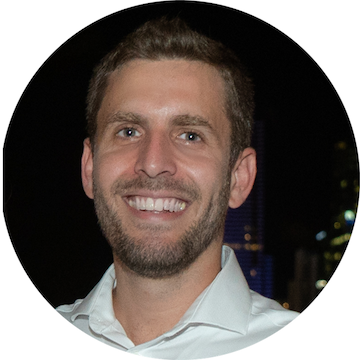
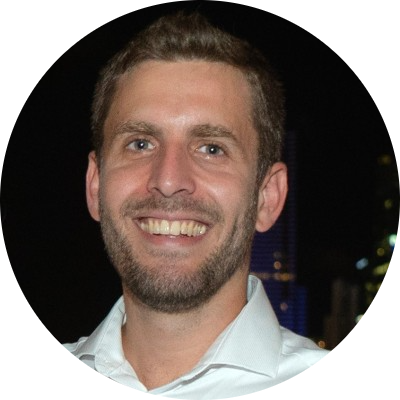
Headshot changed. Professional experience updated.

diff --git a/index.html b/index.html
@@ -175,7 +175,9 @@
         .profile-image img {
             width: 100%;
             height: 100%;
-            object-fit: cover;
+            object-fit: contain;
+            object-position: center;
+            background-color: var(--white);
         }
         
         .about-content h3 {
@@ -497,9 +499,9 @@
                     <img src="assets/images/headshot.png" alt="Headshot of Daniel Baez">
                 </div>
                 <div class="about-content">
-                    <p>Hello, I'm Daniel Baez — a technology enthusiast and CTO passionate about efficiency in digital transformation. With an analytical mindset and methodical approach to problem-solving, I've built my career on viewing technological challenges from multiple perspectives to deliver strategic solutions.</p>
-                    <p>I specialize in IT Strategy development and Project Management, translating complex business requirements into actionable technology roadmaps. My professional focus centers on automation and IT integrations, where I continually seek opportunities to streamline operations and create powerful synergies between systems.</p>
-                    <p>Beyond the professional realm, my interests in reading, traveling, and exploring emerging technologies continuously inform my approach to work. This balanced perspective drives me to seek innovative solutions while remaining adaptable to evolving methodologies.</p>
+                    <p>Hello, I'm Daniel Baez — a technology enthusiast passionate about efficiency in digital transformation. With an analytical mindset and a methodical approach to problem-solving, I’ve built my career on viewing technological challenges from multiple perspectives to deliver strategic solutions.</p>
+                    <p>I specialize in IT strategy development and project management, translating complex business requirements into actionable technology roadmaps. My professional focus centers on automation and IT integrations, where I continually seek opportunities to streamline operations and create powerful synergies between systems.</p>
+                    <p>Beyond the professional realm, my interests in reading, traveling, and exploring emerging technologies continually inform my approach to work. This balanced perspective drives me to pursue innovative solutions while remaining adaptable to evolving methodologies.</p>
                 </div>
             </div>
         </section>
@@ -513,11 +515,11 @@
                     <div class="project-content">
                         <h3 class="project-title">Project Name</h3>
                         <p class="project-description">A brief description of the project, highlighting your role, the challenges you faced, and how you overcame them. Keep it concise but informative.</p>
-                        <div class="project-tech">
+                        <!-- <div class="project-tech">
                             <span class="tech-tag">React</span>
                             <span class="tech-tag">Node.js</span>
                             <span class="tech-tag">AWS</span>
-                        </div>
+                        </div> -->
                     </div>
                 </div>
                 
@@ -526,11 +528,11 @@
                     <div class="project-content">
                         <h3 class="project-title">Project Name</h3>
                         <p class="project-description">A brief description of the project, highlighting your role, the challenges you faced, and how you overcame them. Keep it concise but informative.</p>
-                        <div class="project-tech">
+                        <!-- <div class="project-tech">
                             <span class="tech-tag">JavaScript</span>
                             <span class="tech-tag">PHP</span>
                             <span class="tech-tag">MySQL</span>
-                        </div>
+                        </div> -->
                     </div>
                 </div>
                 
@@ -539,11 +541,11 @@
                     <div class="project-content">
                         <h3 class="project-title">Project Name</h3>
                         <p class="project-description">A brief description of the project, highlighting your role, the challenges you faced, and how you overcame them. Keep it concise but informative.</p>
-                        <div class="project-tech">
+                        <!-- <div class="project-tech">
                             <span class="tech-tag">Python</span>
                             <span class="tech-tag">Django</span>
                             <span class="tech-tag">PostgreSQL</span>
-                        </div>
+                        </div> -->
                     </div>
                 </div>
             </div>
@@ -557,7 +559,15 @@
                     <div class="timeline-date">2009 - Present</div>
                     <h3 class="timeline-title">Chief Technology Officer (CTO)</h3>
                     <div class="timeline-company">Insurance Nation</div>
-                    <p class="timeline-description">Describe your role, responsibilities, and key achievements. Include specific projects you worked on and technologies you used. Focus on quantifiable results and the impact of your work.</p>
+                    <p class="timeline-description">Technology leader specializing in digital transformation, IT strategy development, and innovative problem-solving. Analytical mindset and methodical approach to translating complex business requirements into actionable technology roadmaps.</p>
+                    <br>
+                    <ul>
+                        <li>Drive company-wide digital transformation initiatives, modernizing legacy insurance operations</li>
+                        <li>Architect and manage multi-cloud infrastructure (Google Cloud Platform, Microsoft Azure)</li>
+                        <li>Oversee enterprise communication systems and security infrastructure</li>
+                        <li>Spearhead AI implementation for customer service and underwriting processes</li>
+                        <li>Direct cross-functional teams in agile development and continuous deployment practices</li>
+                    </ul>
                 </div>
             </div>
         </section>
@@ -580,7 +590,7 @@
             <h2 class="section-title">Education</h2>
             <div class="timeline">
                 <div class="timeline-item">
-                    <div class="timeline-date">Jan 2022 - Present</div>
+                    <div class="timeline-date">Jan 2022 - Aug 2025</div>
                     <h3 class="timeline-title">Master of Science - MS, Computer Science</h3>
                     <div class="timeline-company">Georgia Institute of Technology</div>
                 </div>
